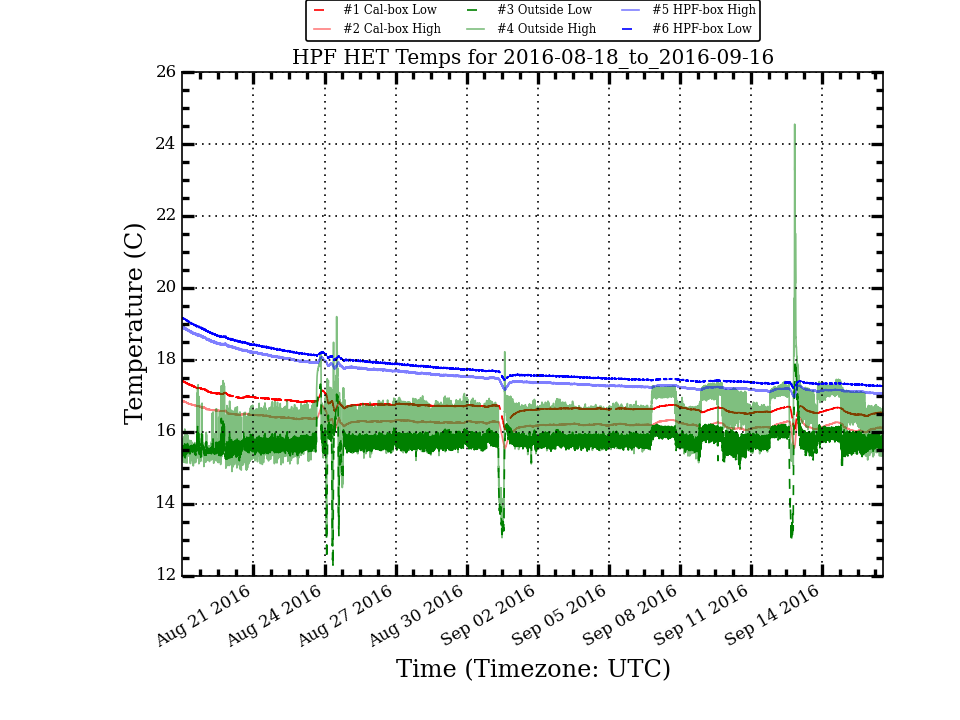
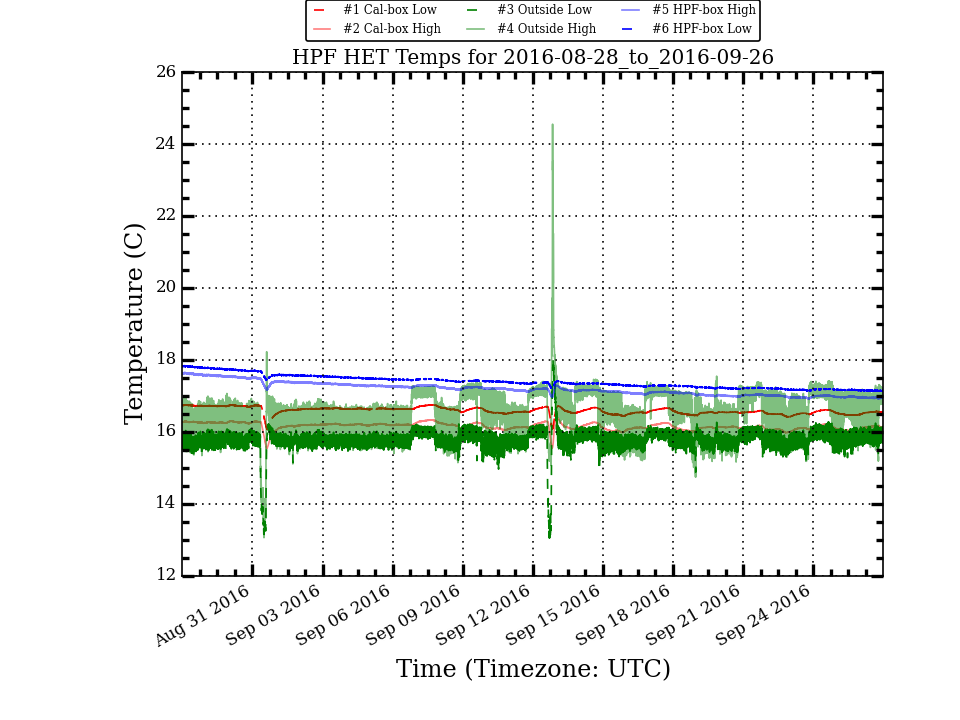
Update HPF Temp Plots

diff --git a/research/hpf_temps/plots/LakeShoreLogTotal_week_stats.html b/research/hpf_temps/plots/LakeShoreLogTotal_week_stats.html
@@ -10,56 +10,56 @@
  </TR>
  <TR>
   <TD>Cal_Low</TD>
-  <TD>16.558</TD>
-  <TD>0.089</TD>
-  <TD>16.555</TD>
-  <TD>16.725</TD>
-  <TD>16.091</TD>
-  <TD>0.634</TD>
+  <TD>16.529</TD>
+  <TD>0.044</TD>
+  <TD>16.538</TD>
+  <TD>16.617</TD>
+  <TD>16.421</TD>
+  <TD>0.196</TD>
  </TR>
  <TR>
   <TD>Cal_High</TD>
-  <TD>16.129</TD>
-  <TD>0.110</TD>
-  <TD>16.122</TD>
-  <TD>16.408</TD>
-  <TD>15.553</TD>
-  <TD>0.855</TD>
+  <TD>16.109</TD>
+  <TD>0.053</TD>
+  <TD>16.118</TD>
+  <TD>16.221</TD>
+  <TD>15.978</TD>
+  <TD>0.243</TD>
  </TR>
  <TR>
   <TD>Out_Low</TD>
-  <TD>15.789</TD>
-  <TD>0.466</TD>
-  <TD>15.811</TD>
-  <TD>17.976</TD>
-  <TD>12.994</TD>
-  <TD>4.982</TD>
+  <TD>15.824</TD>
+  <TD>0.181</TD>
+  <TD>15.834</TD>
+  <TD>16.291</TD>
+  <TD>15.221</TD>
+  <TD>1.070</TD>
  </TR>
  <TR>
   <TD>Out_High</TD>
+  <TD>16.631</TD>
+  <TD>0.490</TD>
   <TD>16.735</TD>
-  <TD>0.727</TD>
-  <TD>16.757</TD>
-  <TD>24.550</TD>
-  <TD>15.071</TD>
-  <TD>9.479</TD>
+  <TD>17.419</TD>
+  <TD>15.166</TD>
+  <TD>2.253</TD>
  </TR>
  <TR>
   <TD>HPF_High</TD>
-  <TD>17.156</TD>
-  <TD>0.050</TD>
-  <TD>17.161</TD>
-  <TD>17.291</TD>
-  <TD>16.963</TD>
-  <TD>0.328</TD>
+  <TD>16.989</TD>
+  <TD>0.029</TD>
+  <TD>16.989</TD>
+  <TD>17.053</TD>
+  <TD>16.923</TD>
+  <TD>0.130</TD>
  </TR>
  <TR>
   <TD>HPF_Low</TD>
-  <TD>17.347</TD>
-  <TD>0.039</TD>
-  <TD>17.349</TD>
-  <TD>17.428</TD>
-  <TD>17.201</TD>
-  <TD>0.227</TD>
+  <TD>17.186</TD>
+  <TD>0.026</TD>
+  <TD>17.184</TD>
+  <TD>17.241</TD>
+  <TD>17.128</TD>
+  <TD>0.113</TD>
  </TR>
 </TABLE>

diff --git a/research/hpf_temps/plots/LakeShoreLogTotal_month_stats.html b/research/hpf_temps/plots/LakeShoreLogTotal_month_stats.html
@@ -10,56 +10,56 @@
  </TR>
  <TR>
   <TD>Cal_Low</TD>
-  <TD>16.718</TD>
-  <TD>0.188</TD>
-  <TD>16.677</TD>
-  <TD>17.425</TD>
+  <TD>16.592</TD>
+  <TD>0.096</TD>
+  <TD>16.594</TD>
+  <TD>16.755</TD>
   <TD>16.074</TD>
-  <TD>1.351</TD>
+  <TD>0.681</TD>
  </TR>
  <TR>
   <TD>Cal_High</TD>
-  <TD>16.264</TD>
-  <TD>0.174</TD>
-  <TD>16.249</TD>
-  <TD>16.874</TD>
+  <TD>16.158</TD>
+  <TD>0.100</TD>
+  <TD>16.168</TD>
+  <TD>16.408</TD>
   <TD>15.544</TD>
-  <TD>1.330</TD>
+  <TD>0.864</TD>
  </TR>
  <TR>
   <TD>Out_Low</TD>
-  <TD>15.729</TD>
-  <TD>0.393</TD>
-  <TD>15.755</TD>
+  <TD>15.789</TD>
+  <TD>0.326</TD>
+  <TD>15.814</TD>
   <TD>17.976</TD>
-  <TD>12.302</TD>
-  <TD>5.674</TD>
+  <TD>12.994</TD>
+  <TD>4.982</TD>
  </TR>
  <TR>
   <TD>Out_High</TD>
-  <TD>16.330</TD>
-  <TD>0.666</TD>
-  <TD>16.363</TD>
+  <TD>16.539</TD>
+  <TD>0.593</TD>
+  <TD>16.559</TD>
   <TD>24.550</TD>
-  <TD>12.840</TD>
-  <TD>11.710</TD>
+  <TD>13.065</TD>
+  <TD>11.485</TD>
  </TR>
  <TR>
   <TD>HPF_High</TD>
-  <TD>17.556</TD>
-  <TD>0.431</TD>
-  <TD>17.372</TD>
-  <TD>18.926</TD>
-  <TD>16.963</TD>
-  <TD>1.963</TD>
+  <TD>17.198</TD>
+  <TD>0.180</TD>
+  <TD>17.178</TD>
+  <TD>17.652</TD>
+  <TD>16.923</TD>
+  <TD>0.729</TD>
  </TR>
  <TR>
   <TD>HPF_Low</TD>
-  <TD>17.753</TD>
-  <TD>0.439</TD>
-  <TD>17.564</TD>
-  <TD>19.174</TD>
-  <TD>17.201</TD>
-  <TD>1.973</TD>
+  <TD>17.392</TD>
+  <TD>0.178</TD>
+  <TD>17.367</TD>
+  <TD>17.847</TD>
+  <TD>17.128</TD>
+  <TD>0.719</TD>
  </TR>
 </TABLE>
